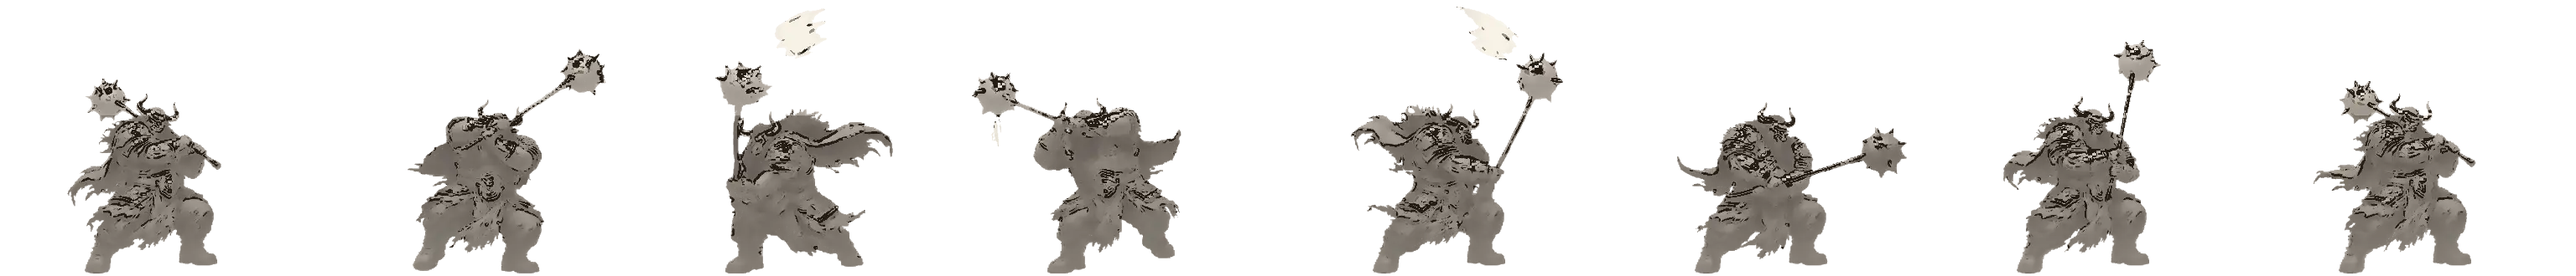
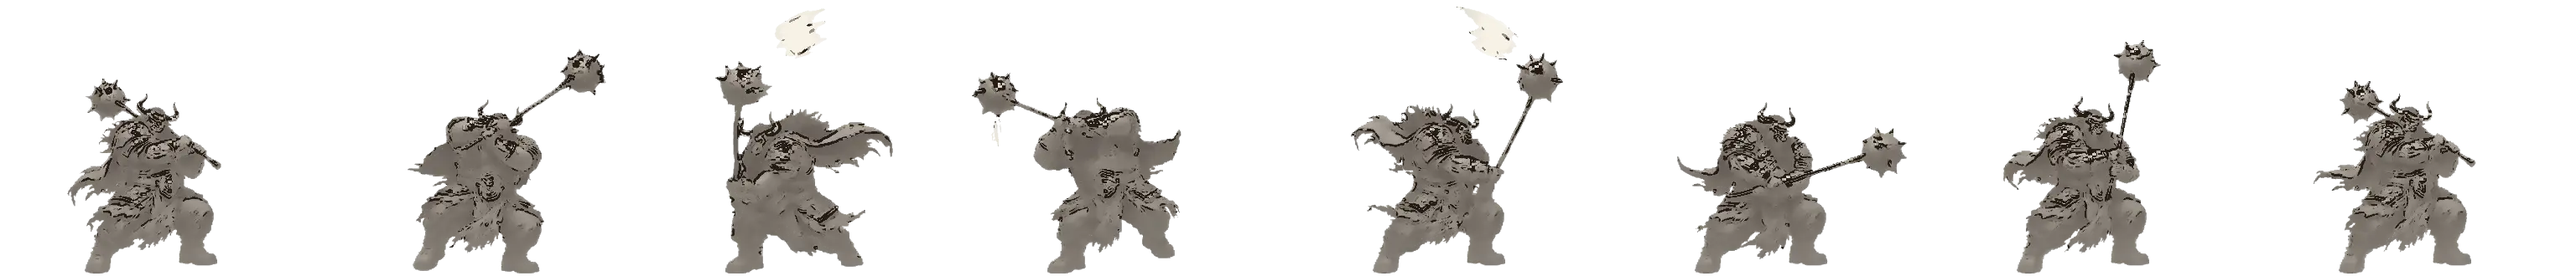
Remove the bull king's gray band and ink the hit sparks.
The upper-body wash that left a rectangle behind him is gone. Hit bursts are ink splashes with a few cinnabar marks, and the battlefield flashes no longer use orange or gold glows.

diff --git a/bossfight/ui.js b/bossfight/ui.js
@@ -138,7 +138,11 @@
   /* ---------- 特效 ---------- */
   function fxAdd(o) { o.age = 0; o.max = o.max || 0.6; G.fx.push(o); return o; }
   function dust(x, y, n, sz, col) { for (var i = 0; i < n; i++) fxAdd({ k: 'dust', x: x + (rnd() - .5) * sz * 1.4, y: y + (rnd() - .5) * 6, vx: (rnd() - .5) * 60 * G.S, vy: -(14 + rnd() * 40) * G.S, r: sz * (.25 + rnd() * .35), max: .6 + rnd() * .5, col: col || '176,146,104' }); }
-  function inkBurst(x, y, sz, col, n, a) { fxAdd({ k: 'ink', x: x, y: y, sz: sz, col: col || '#2f2a1f', max: .5, seed: rnd() * 99, n: n || 14, a: a || .85 }); }
+  function inkBurst(x, y, sz, col, n, a) {
+    n = n || 14; a = a || .85;
+    fxAdd({ k: 'ink', x: x, y: y, sz: sz, col: '#2a2218', max: .5, seed: rnd() * 99, n: n, a: a });
+    fxAdd({ k: 'ink', x: x, y: y, sz: sz * .7, col: '#6e342c', max: .4, seed: rnd() * 99, n: Math.max(2, Math.round(n / 4)), a: a * .7 });
+  }
   function stain(x, y, sz, a) { fxAdd({ k: 'stain', x: x, y: y + 2 * G.S, sz: sz, a: a || .16, max: .9, seed: (rnd() * 999) | 0 }); }
   function ring(x, y, sz, col, max, lw) { fxAdd({ k: 'ring', x: x, y: y, sz: sz, col: col, max: max || .5, lw: lw || 5 * G.S }); }
   function inkFloat(col) {
@@ -206,7 +210,7 @@
         G.shake = Math.max(G.shake, (e.big ? 9 : 3) * S); if (e.big) { G.stop = Math.max(G.stop, .06); hui(h).fly = .6; } h.flash = .14; wkick('h:' + e.id, 'hit', e.big ? 1.3 : .7); break; }
       case 'stagger': call('破招', '#c8341f', true); ring(bv.x, bodyY(bv.sc), 120 * S, '#e6c474', .5); break;
       case 'ultland': { call('必杀', '#c8341f', true); var cc = (e.id === 'wukong' ? '#ef8a3c' : BF.SP[e.id].color); ring(bv.x, bodyY(bv.sc), 150 * S, cc, .7, 7 * S); inkBurst(bv.x + 30 * S, bodyY(bv.sc) - G.fh * .25, 70 * S, cc, 10, .5); dust(bv.x, gy, 12, 56 * S);
-        slash(bv.x, bodyY(bv.sc), -.5, 300 * S, '#fffaf0', 18 * S); slash(bv.x, bodyY(bv.sc), .55, 260 * S, cc, 12 * S); G.shake = Math.max(G.shake, 13 * S); G.stop = Math.max(G.stop, .11); G.flash = .3; G.flashC = '#fffaf0';
+        slash(bv.x, bodyY(bv.sc), -.5, 300 * S, '#2a2218', 18 * S); slash(bv.x, bodyY(bv.sc), .55, 260 * S, '#6e342c', 8 * S); G.shake = Math.max(G.shake, 13 * S); G.stop = Math.max(G.stop, .11); G.flash = .3; G.flashC = '#f4efe4';
         if (e.id !== 'wukong') { var ef = BF.SP[e.id].ult.e || {}, lab = Object.keys(ef).filter(function (k) { return EFXN[k]; }).map(function (k) { return EFXN[k]; }); var w0 = F.heroes[0]; if (lab.length && w0) { hv = heroVis(w0); text(hv.x, Math.max(bodyY(hv.sc) - G.fh * .46, (G.land ? G.H * .245 : G.H * .2) + 48 * S), lab.join(' · '), cc, 22, 1.5); ring(hv.x, bodyY(hv.sc), 110 * S, cc, .8, 5 * S); } } break; }
       case 'ko': { h = heroById(e.id); if (!h) break; hv = heroVis(h); inkBurst(hv.x, bodyY(hv.sc) - G.fh * .1, 90 * S, '#2f2a1f', 14, .45); dust(hv.x, gy, 10, 50 * S); call(h.w ? '败' : '退场', '#4a4338', true); G.shake = 12 * S; break; }
       case 'bossko': G.calls = []; G.fx = G.fx.filter(function (f) { return !(f.k === 'txt' && f.col === '#b8863b'); }); G.slow = 1.6; G.shake = 18 * S; inkBurst(bv.x, bodyY(bv.sc) - G.fh * .3, 150 * S, '#2f2a1f', 22, .4); ring(bv.x, bodyY(bv.sc), 300 * S, '#e6c474', 1, 10 * S); G.flash = .5; G.flashC = '#fffaf0'; break;
@@ -217,9 +221,9 @@
       case 'meleehit': { var fx0 = bv.x + e.face * 120 * S; slash(fx0, bodyY(bv.sc) + (e.n === 2 ? 40 : 20) * S, e.face < 0 ? (e.n === 2 ? 3.6 : 2.6) : (e.n === 2 ? -.5 : .5), 200 * S, '#2f2a1f', 20 * S); dust(fx0, gy, 6, 40 * S); stain(fx0, gy, 80 * S, .16); wkick('boss', 'land', e.n === 2 ? .9 : .6); G.shake = Math.max(G.shake, (e.n === 2 ? 6 : 4) * S); break; }
       case 'spinhit': ring(bv.x, gy, BF.K.SPIN_R * G.V.k * 1.7, '#2f2a1f', .5, 8 * S); dust(bv.x, gy, 8, 48 * S); wkick('boss', 'land', .5); G.shake = Math.max(G.shake, 5 * S); break;
       case 'interrupt': text(bv.x, bodyY(bv.sc) - G.fh * .55, '打断！', '#5c4034', 40, 1.1); ring(bv.x, bodyY(bv.sc), 140 * S, '#5c4034', .6, 6 * S); break;
-      case 'finalhit': ring(bv.x, gy, G.W * .5, '#c8341f', .9, 12 * S); dust(bv.x, gy, 22, 90 * S); stain(bv.x, gy, 160 * S, .22); wkick('boss', 'land', 1.2); G.shake = 22 * S; G.stop = .1; G.flash = .4; G.flashC = '#ffd9a0'; break;
+      case 'finalhit': ring(bv.x, gy, G.W * .5, '#2a2218', .9, 12 * S); dust(bv.x, gy, 22, 90 * S); stain(bv.x, gy, 160 * S, .22); wkick('boss', 'land', 1.2); G.shake = 22 * S; G.stop = .1; G.flash = .4; G.flashC = '#f4efe4'; break;
       case 'guards': ring(bv.x, bodyY(bv.sc), 170 * S, '#7a2b8e', .7); break;
-      case 'flames': dust(bv.x - 60 * S, gy, 8, 46 * S, '150,110,70'); stain(bv.x - 60 * S, gy, 110 * S, .2); wkick('boss', 'land', 1); ring(bv.x - 60 * S, gy, 150 * S, '#7a5a30', .5, 6 * S); G.shake = Math.max(G.shake, 6 * S); break;
+      case 'flames': dust(bv.x - 60 * S, gy, 8, 46 * S, '42,34,24'); stain(bv.x - 60 * S, gy, 110 * S, .2); wkick('boss', 'land', 1); ring(bv.x - 60 * S, gy, 150 * S, '#2a2218', .5, 6 * S); inkBurst(bv.x - 60 * S, gy - 20 * S, 50 * S, '#2a2218', 8, .4); G.shake = Math.max(G.shake, 6 * S); break;
       case 'dodge': h = heroById(e.id); if (h) { hv = heroVis(h); text(hv.x, bodyY(hv.sc) - 60 * S, '闪', '#5c4034', 34, .7); } break;
       case 'trait': h = heroById(e.id); if (h) { hv = heroVis(h); if (!G.F.over) text(hv.x, bodyY(hv.sc) - 90 * S, e.name, '#b8863b', 22, 1.3); ring(hv.x, bodyY(hv.sc), 110 * S, h.color, .6); } break;
       case 'wuult': G.wuUlt = .9; hv = heroVis(F.heroes[0]); text(hv.x, bodyY(hv.sc) - 100 * S, '如意金箍棒', '#c8341f', 26, 1.2); break;
@@ -690,13 +694,13 @@
     }
     // 站到场上放必杀，然后离场
     var u2 = (t - cutT) / BF.SM.END, a = u2 < .1 ? u2 / .1 : (u2 > .8 ? clamp(1 - (u2 - .8) / .2, 0, 1) : 1), px = clamp(bv.x - (G.land ? .3 : .36) * W, W * .14, W * .8), ph = fh * 1.02;
-    c.save(); c.globalAlpha = .3 * a; var rg = c.createRadialGradient(px, G.gy - fh * .35, 10, px, G.gy - fh * .35, fh * .8); rg.addColorStop(0, col); rg.addColorStop(1, 'rgba(255,255,255,0)'); c.fillStyle = rg; c.fillRect(0, 0, W, H); c.restore();
+    c.save(); c.globalAlpha = .3 * a; var rg = c.createRadialGradient(px, G.gy - fh * .35, 10, px, G.gy - fh * .35, fh * .8); rg.addColorStop(0, 'rgba(42,34,24,.55)'); rg.addColorStop(1, 'rgba(42,34,24,0)'); c.fillStyle = rg; c.fillRect(0, 0, W, H); c.restore();
     var atk = clamp((t - cutT - .1) / .45, 0, 1), lunge = Math.sin(atk * Math.PI);
     var tt = t - cutT, spose = tt < .1 ? 'stance' : (tt < BF.SM.HIT + .5 ? 'ult' : 'stance');
     if (id === 'yuanzhang' || id === 'martin') drawRetinue(c, id, px, G.gy - .01 * H, ph, a * .95 * clamp(tt / .3, 0, 1), G.t);
     drawSpr(c, id, spose, px, G.gy - .01 * H, ph, { alpha: a, dx: lunge * 60 * S, rot: lunge * .04, sx: 1 + lunge * .03, lift: spose === 'ult' ? .03 : 0, skew: .014 * idleV(.2), key: 'sum:' + id });
-    if (!s.hit) { c.save(); c.globalAlpha = .5 * atk; c.strokeStyle = col; c.lineWidth = 8 * S; c.beginPath(); c.arc(px + 40 * S, G.gy - fh * .42, fh * .28 * (1 - atk * .4), 0, 7); c.stroke(); c.restore(); }
-    else { var q = clamp((t - cutT - BF.SM.HIT) / .6, 0, 1); c.save(); c.globalAlpha = (1 - q) * .8; c.strokeStyle = col; c.lineWidth = 14 * S * (1 - q); c.beginPath(); c.moveTo(px + 90 * S, G.gy - fh * .4); c.quadraticCurveTo((px + bv.x) / 2, G.gy - fh * .55, bv.x, G.gy - fh * .4); c.stroke(); c.lineWidth = 4 * S; c.strokeStyle = '#fffaf0'; c.stroke(); c.restore(); }
+    if (!s.hit) { c.save(); c.globalAlpha = .5 * atk; c.strokeStyle = '#2a2218'; c.lineWidth = 8 * S; c.beginPath(); c.arc(px + 40 * S, G.gy - fh * .42, fh * .28 * (1 - atk * .4), 0, 7); c.stroke(); c.restore(); }
+    else { var q = clamp((t - cutT - BF.SM.HIT) / .6, 0, 1); c.save(); c.globalAlpha = (1 - q) * .8; c.strokeStyle = '#2a2218'; c.lineWidth = 14 * S * (1 - q); c.beginPath(); c.moveTo(px + 90 * S, G.gy - fh * .4); c.quadraticCurveTo((px + bv.x) / 2, G.gy - fh * .55, bv.x, G.gy - fh * .4); c.stroke(); c.lineWidth = 3 * S; c.strokeStyle = '#6e342c'; c.stroke(); c.restore(); }
   }
 
   /* ---------- 总绘制 ---------- */
